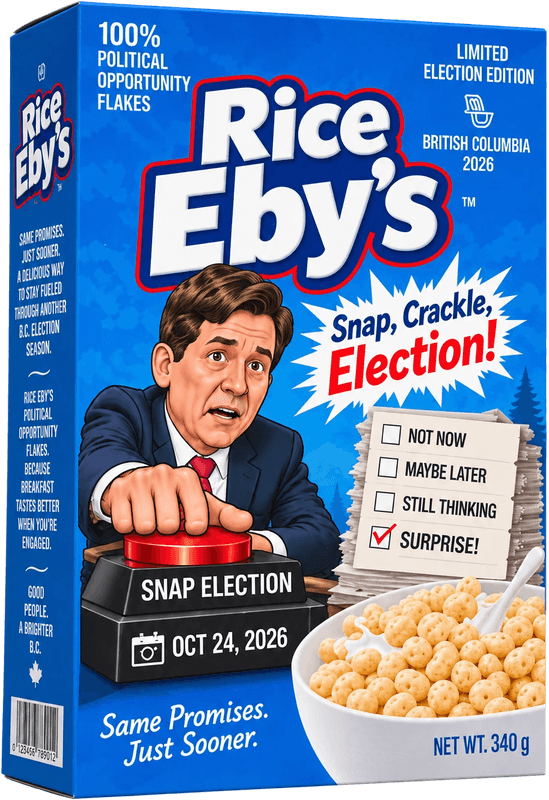
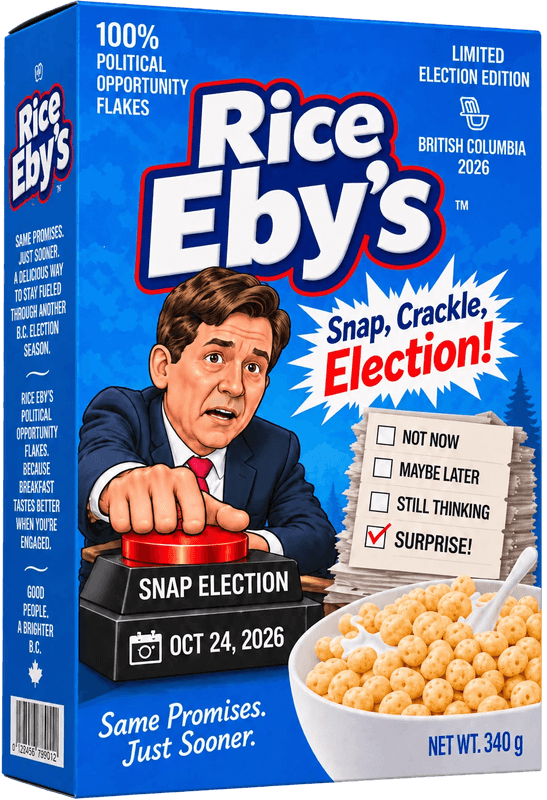
Replace the Rice Eby's product box with the matching-angle version
Claude-Session: https://claude.ai/code/session_01Q3XzEHpgLFs5zTYYsgGdJm

diff --git a/cereal-citizens/data/products.ts b/cereal-citizens/data/products.ts
@@ -17,7 +17,7 @@ export const products: Product[] = [
     currency: "CAD",
     image: {
       src: "/images/rice-ebys-box.png",
-      width: 549,
+      width: 547,
       height: 800,
       alt: "Rice Eby’s limited election edition cereal box, blue packaging",
     },

diff --git a/cereal-citizens/README.md b/cereal-citizens/README.md
@@ -29,7 +29,7 @@ Put the files in `public/images/`. All images are ChatGPT images, made to match 
 
 | File | Current size | Used for |
 | --- | --- | --- |
-| `rice-ebys-box.png` | 549 × 800, transparent, ChatGPT product shot | Blue box, product card + cart |
+| `rice-ebys-box.png` | 547 × 800, transparent, ChatGPT product shot | Blue box, product card + cart |
 | `lorne-pops-box.png` | 549 × 800, transparent, ChatGPT product shot | Yellow box, product card + cart |
 | `hero-vancouver.jpg` | 1700 × 1127 (≈1.51:1), ChatGPT photo with sky extended | Hero, full-bleed cover. On mobile it's cropped 4:5 and on tablet square, both toward the right |
 | `xl-vancouver.jpg` | 1536 × 1024, ChatGPT photo, cropped by CSS (`object-position` 50% 22%) | XL Boxes, right 66%. 16:10 on mobile |
